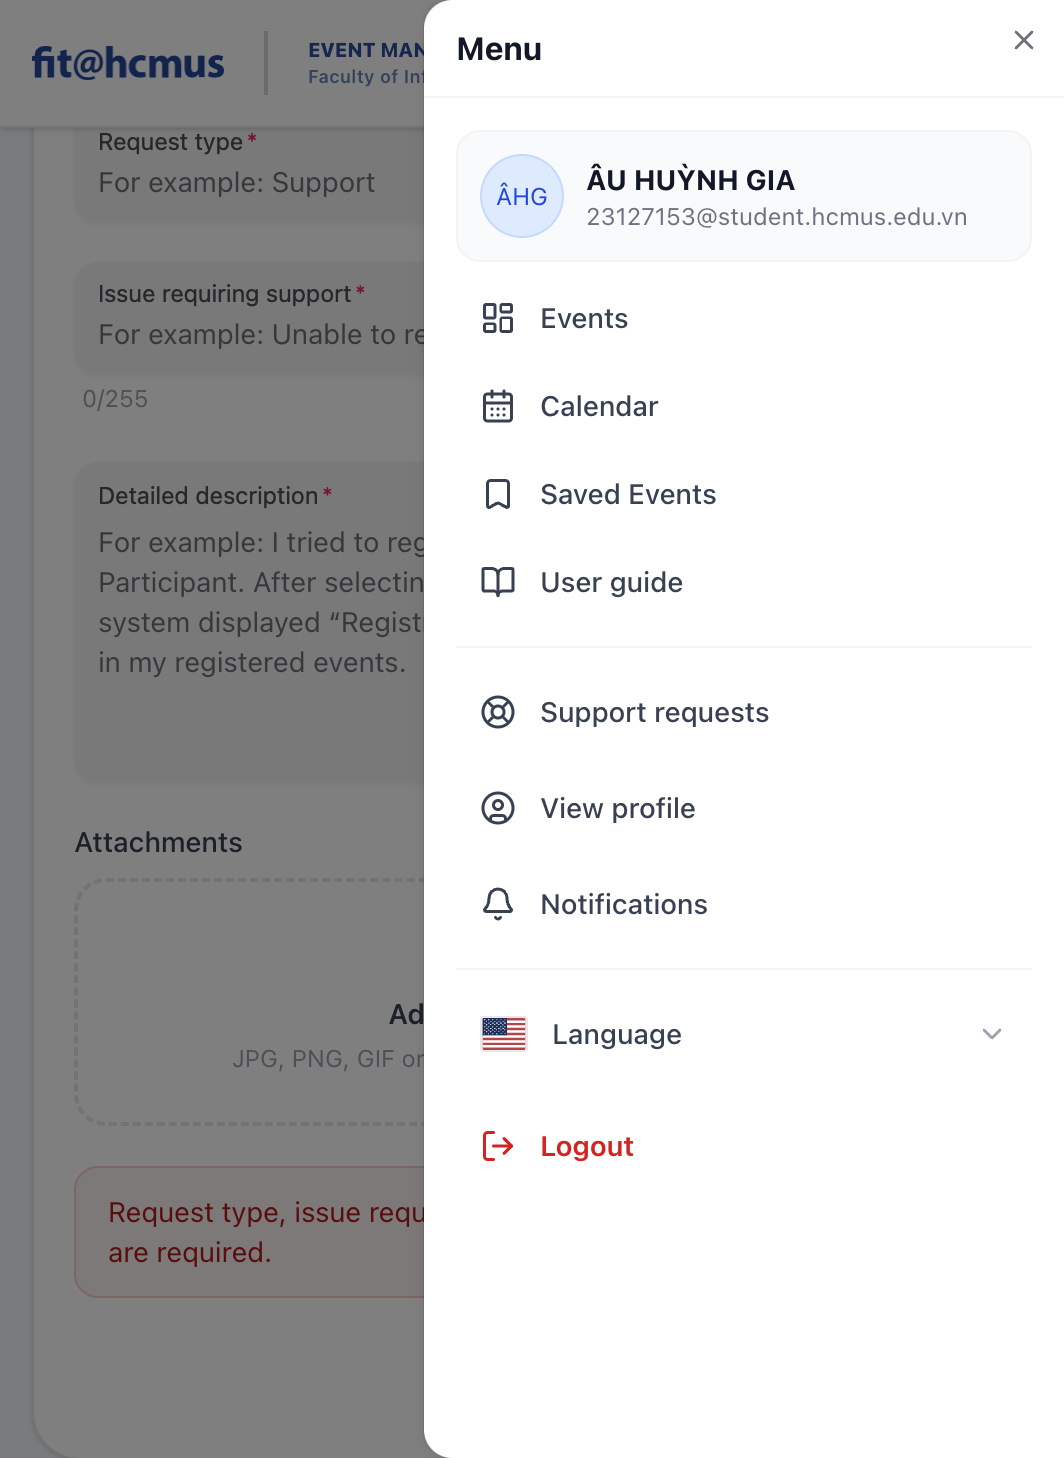
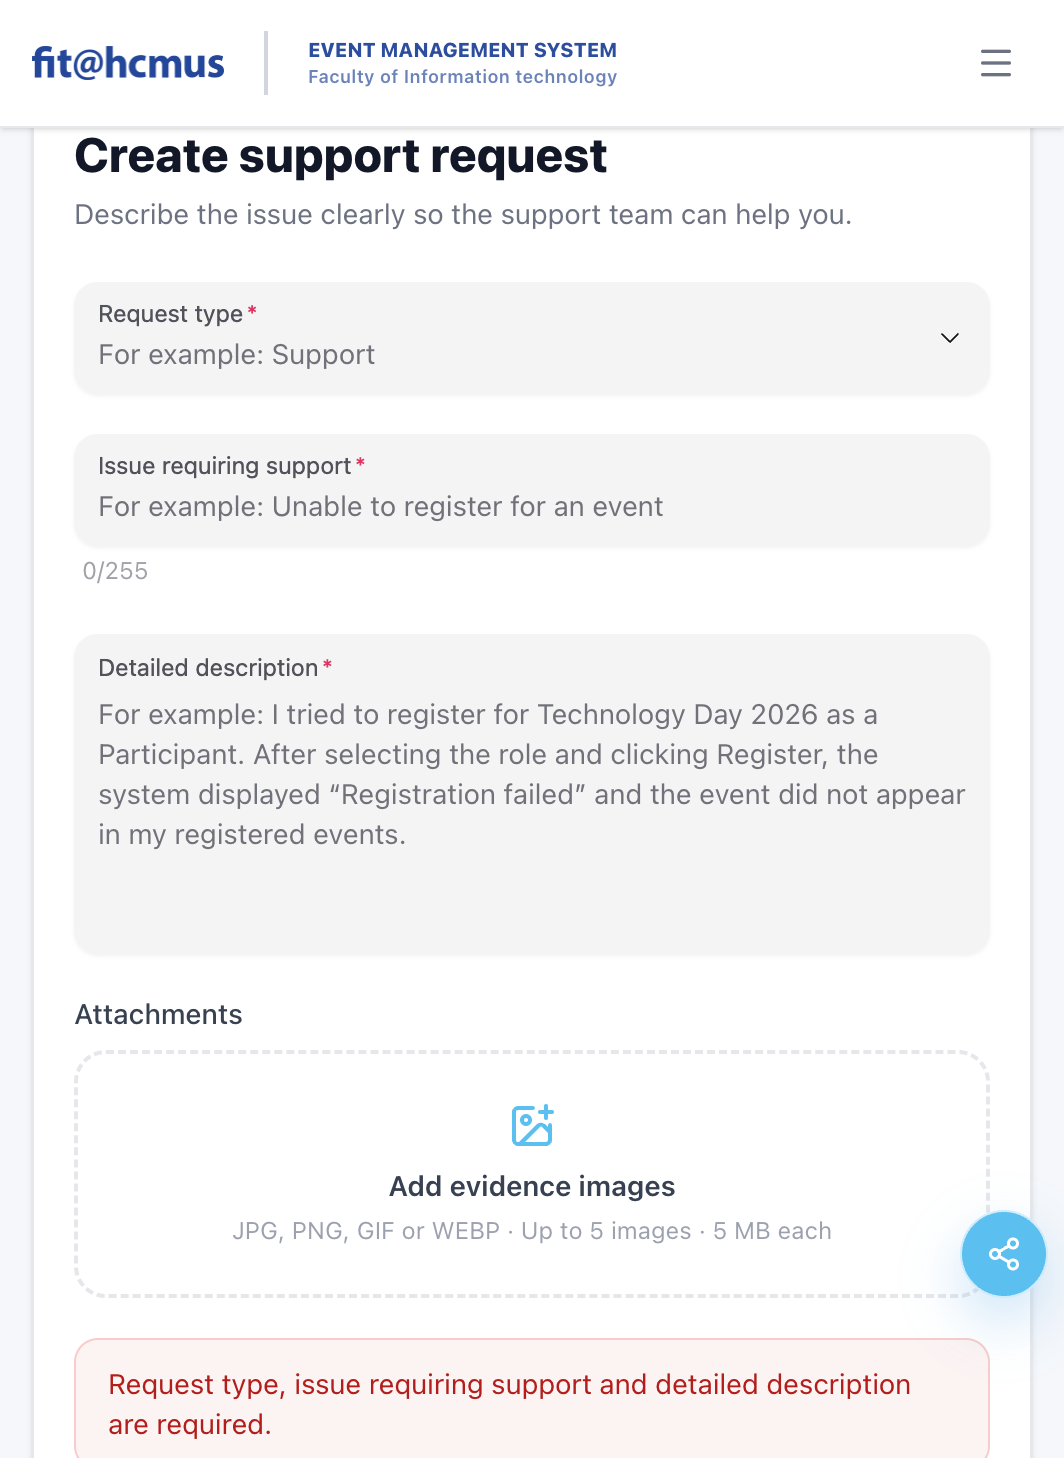
fix(hw03): realign D1 Fail screenshots and rescored IA02-02
Verified pre/post/menu captures; mark required asterisks as Pass;
keep 6 Failures with matching evidence groups.

diff --git a/submission/evidence/t1b/D1_execution.md b/submission/evidence/t1b/D1_execution.md
@@ -13,10 +13,18 @@
 
 | Result | Count |
 |---|---:|
-| Passed | 22 |
-| Failed | 7 |
+| Passed | 23 |
+| Failed | 6 |
 | N/A | 11 |
 | **Total executable** | **40** |
+
+## Evidence groups (verified)
+
+| Group | Files | Content |
+|---|---|---|
+| Pre-submit form | `IA01-06.png`, `IA03-03.png` | Form loaded; title-overlay shows VI `document.title` vs EN h1; **no** validation banner; no breadcrumb |
+| Post-submit | `IA02-06.png`, `IA02-07.png`, `IA03-09.png` | Combined required alert at bottom; Submit focused; Social FAB visible |
+| Menu open | `IA03-01.png` | Drawer with Support requests; no active/current highlight while on create page |
 
 ## Execution matrix
 
@@ -27,22 +35,22 @@
 | IA01-03 | IA-01 | Pass | H1 “Create support request” dominates; helper text secondary | — |
 | IA01-04 | IA-01 | Pass | Dark text on light card; primary CTA readable | — |
 | IA01-05 | IA-01 | Pass | Cancel (secondary) + Submit (primary) match EMS button patterns | — |
-| IA01-06 | IA-01 | Fail | `document.title` is VI (`Gửi yêu cầu hỗ trợ \| HCMUS EMS`) while H1/labels/placeholders stay EN — mixed locale | `D1/IA01-06.png` (overlay shows title vs h1) |
+| IA01-06 | IA-01 | Fail | `document.title` VI (`Gửi yêu cầu hỗ trợ \| HCMUS EMS`) while H1/labels stay EN | `D1/IA01-06.png` |
 | IA01-07 | IA-01 | N/A | Create form (not a list empty state) | — |
 | IA01-08 | IA-01 | Pass | Page content stable on load | — |
 | IA01-09 | IA-01 | Pass | Desktop: no horizontal overflow on form | — |
 | IA01-10 | IA-01 | Pass | Attachment dropzone + helper present when empty | — |
 | IA02-01 | IA-02 | Pass | Visible labels for all main fields | — |
-| IA02-02 | IA-02 | Fail | Before submit: no `*` and no required legend (DOM `required` only). Asterisks appear only after failed submit | `D1/IA02-02.png` (pre-submit; 0 asterisks) |
+| IA02-02 | IA-02 | Pass | Required fields marked with red `*` before submit | — |
 | IA02-03 | IA-02 | Pass | Attachment constraints + example placeholders | — |
 | IA02-04 | IA-02 | Pass | Request type select with clear options | — |
 | IA02-05 | IA-02 | Pass | Empty submit blocked at submit time | — |
-| IA02-06 | IA-02 | Fail | One combined alert at bottom: “…are required.” — not per-field inline | `D1/IA02-06.png` |
+| IA02-06 | IA-02 | Fail | One combined bottom alert listing all missing fields — not per-field inline | `D1/IA02-06.png` |
 | IA02-07 | IA-02 | Fail | After failed submit, focus stays on Submit (not first invalid field) | `D1/IA02-07.png` |
 | IA02-08 | IA-02 | N/A | No date/time fields on D1 | — |
 | IA02-09 | IA-02 | Pass | Upload constraints disclosed | — |
 | IA02-10 | IA-02 | N/A | Plain textarea — no rich-text editor | — |
-| IA03-01 | IA-03 | Fail | On `/complaints/new`, open menu shows “Support requests” with no clear current/active highlight | `D1/IA03-01.png` |
+| IA03-01 | IA-03 | Fail | Menu “Support requests” has no active/current highlight on `/complaints/new` | `D1/IA03-01.png` |
 | IA03-02 | IA-03 | Pass | Back button present | — |
 | IA03-03 | IA-03 | Fail | No breadcrumb trail on create page | `D1/IA03-03.png` |
 | IA03-04 | IA-03 | N/A | No tabs on D1 | — |
@@ -50,10 +58,10 @@
 | IA03-06 | IA-03 | Pass | Shallow menu hierarchy | — |
 | IA03-07 | IA-03 | Pass | Deep link `/complaints/new` works while authenticated | — |
 | IA03-08 | IA-03 | Pass | Primary controls interactive | — |
-| IA03-09 | IA-03 | Fail | Floating Social FAB sits over footer/content edge and competes for attention near the form actions | `D1/IA03-09.png` |
+| IA03-09 | IA-03 | Fail | Floating Social FAB sits over footer/content edge near form actions | `D1/IA03-09.png` |
 | IA03-10 | IA-03 | Pass | Open-menu drawer available | — |
 | IA04-01 | IA-04 | Pass | Failed submit shows an explicit required-fields message | — |
-| IA04-02 | IA-04 | Pass | Error banner readable (bottom sticky); does not cover Submit | — |
+| IA04-02 | IA-04 | Pass | Error banner readable at bottom; does not cover Submit | — |
 | IA04-03 | IA-04 | N/A | No status badges on create screen | — |
 | IA04-04 | IA-04 | N/A | No status colour coding on create screen | — |
 | IA04-05 | IA-04 | N/A | Dirty-form leave confirmation not exercised | — |
@@ -61,15 +69,14 @@
 | IA04-07 | IA-04 | N/A | Processing/disabled Submit not observed (client abort) | — |
 | IA04-08 | IA-04 | N/A | Not a list/search screen | — |
 | IA04-09 | IA-04 | N/A | No successful create → list sync this run | — |
-| IA04-10 | IA-04 | Pass | Message names the missing fields (not generic “Something went wrong”) | — |
+| IA04-10 | IA-04 | Pass | Message names the missing fields | — |
 
 ## Bug candidates (for Findings Log later)
 
 | ID | Related | Severity | Summary |
 |---|---|---|---|
 | BUG-D1-01 | IA01-06 | Major | Mixed VI document title + EN form chrome |
-| BUG-D1-02 | IA02-02 | Minor | Required markers only after first failed submit; no pre-submit legend |
-| BUG-D1-03 | IA02-06 / IA02-07 | Major | Combined bottom validation alert; focus stays on Submit |
-| BUG-D1-04 | IA03-03 | Minor | Missing breadcrumb on create flow |
-| BUG-D1-05 | IA03-01 | Minor | Weak/absent active state for Support on create page |
-| BUG-D1-06 | IA03-09 | Minor | Social FAB competes with form chrome |
+| BUG-D1-02 | IA02-06 / IA02-07 | Major | Combined bottom validation alert; focus stays on Submit |
+| BUG-D1-03 | IA03-03 | Minor | Missing breadcrumb on create flow |
+| BUG-D1-04 | IA03-01 | Minor | No active state for Support requests on create page |
+| BUG-D1-05 | IA03-09 | Minor | Social FAB competes with form chrome |
